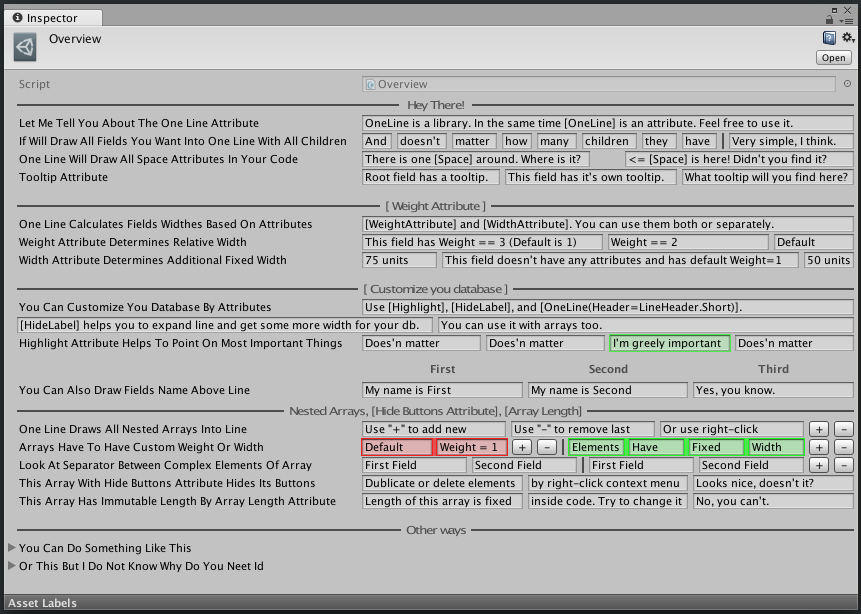
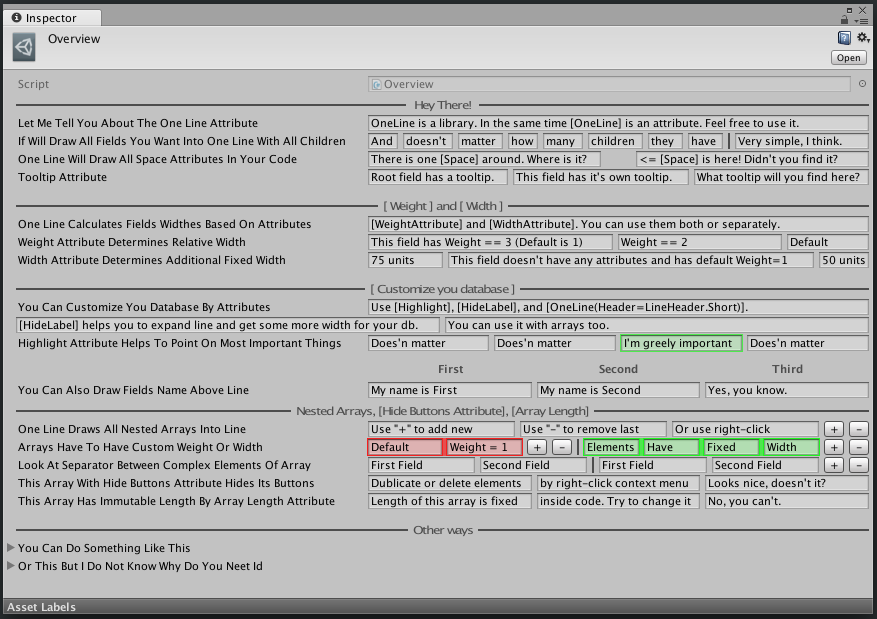
New Overview: screenshot fix

Changed region(s): [[0.0, 0.0, 0.9965, 0.9283], [0.0, 0.9593, 0.9965, 1.0]]

diff --git a/Assets/OneLine/Example/Overview/Scripts/Overview.cs b/Assets/OneLine/Example/Overview/Scripts/Overview.cs
@@ -79,7 +79,7 @@ public class ThreeFields{
 }
 
 #region Weight and Width
-        [Space, Separator("[ Weight Attribute ]")]
+        [Space, Separator("[ Weight ] and [ Width ]")]
         [SerializeField, OneLine]
         private WidthFirstLine oneLineCalculatesFieldsWidthesBasedOnAttributes;
         [SerializeField, OneLine]
